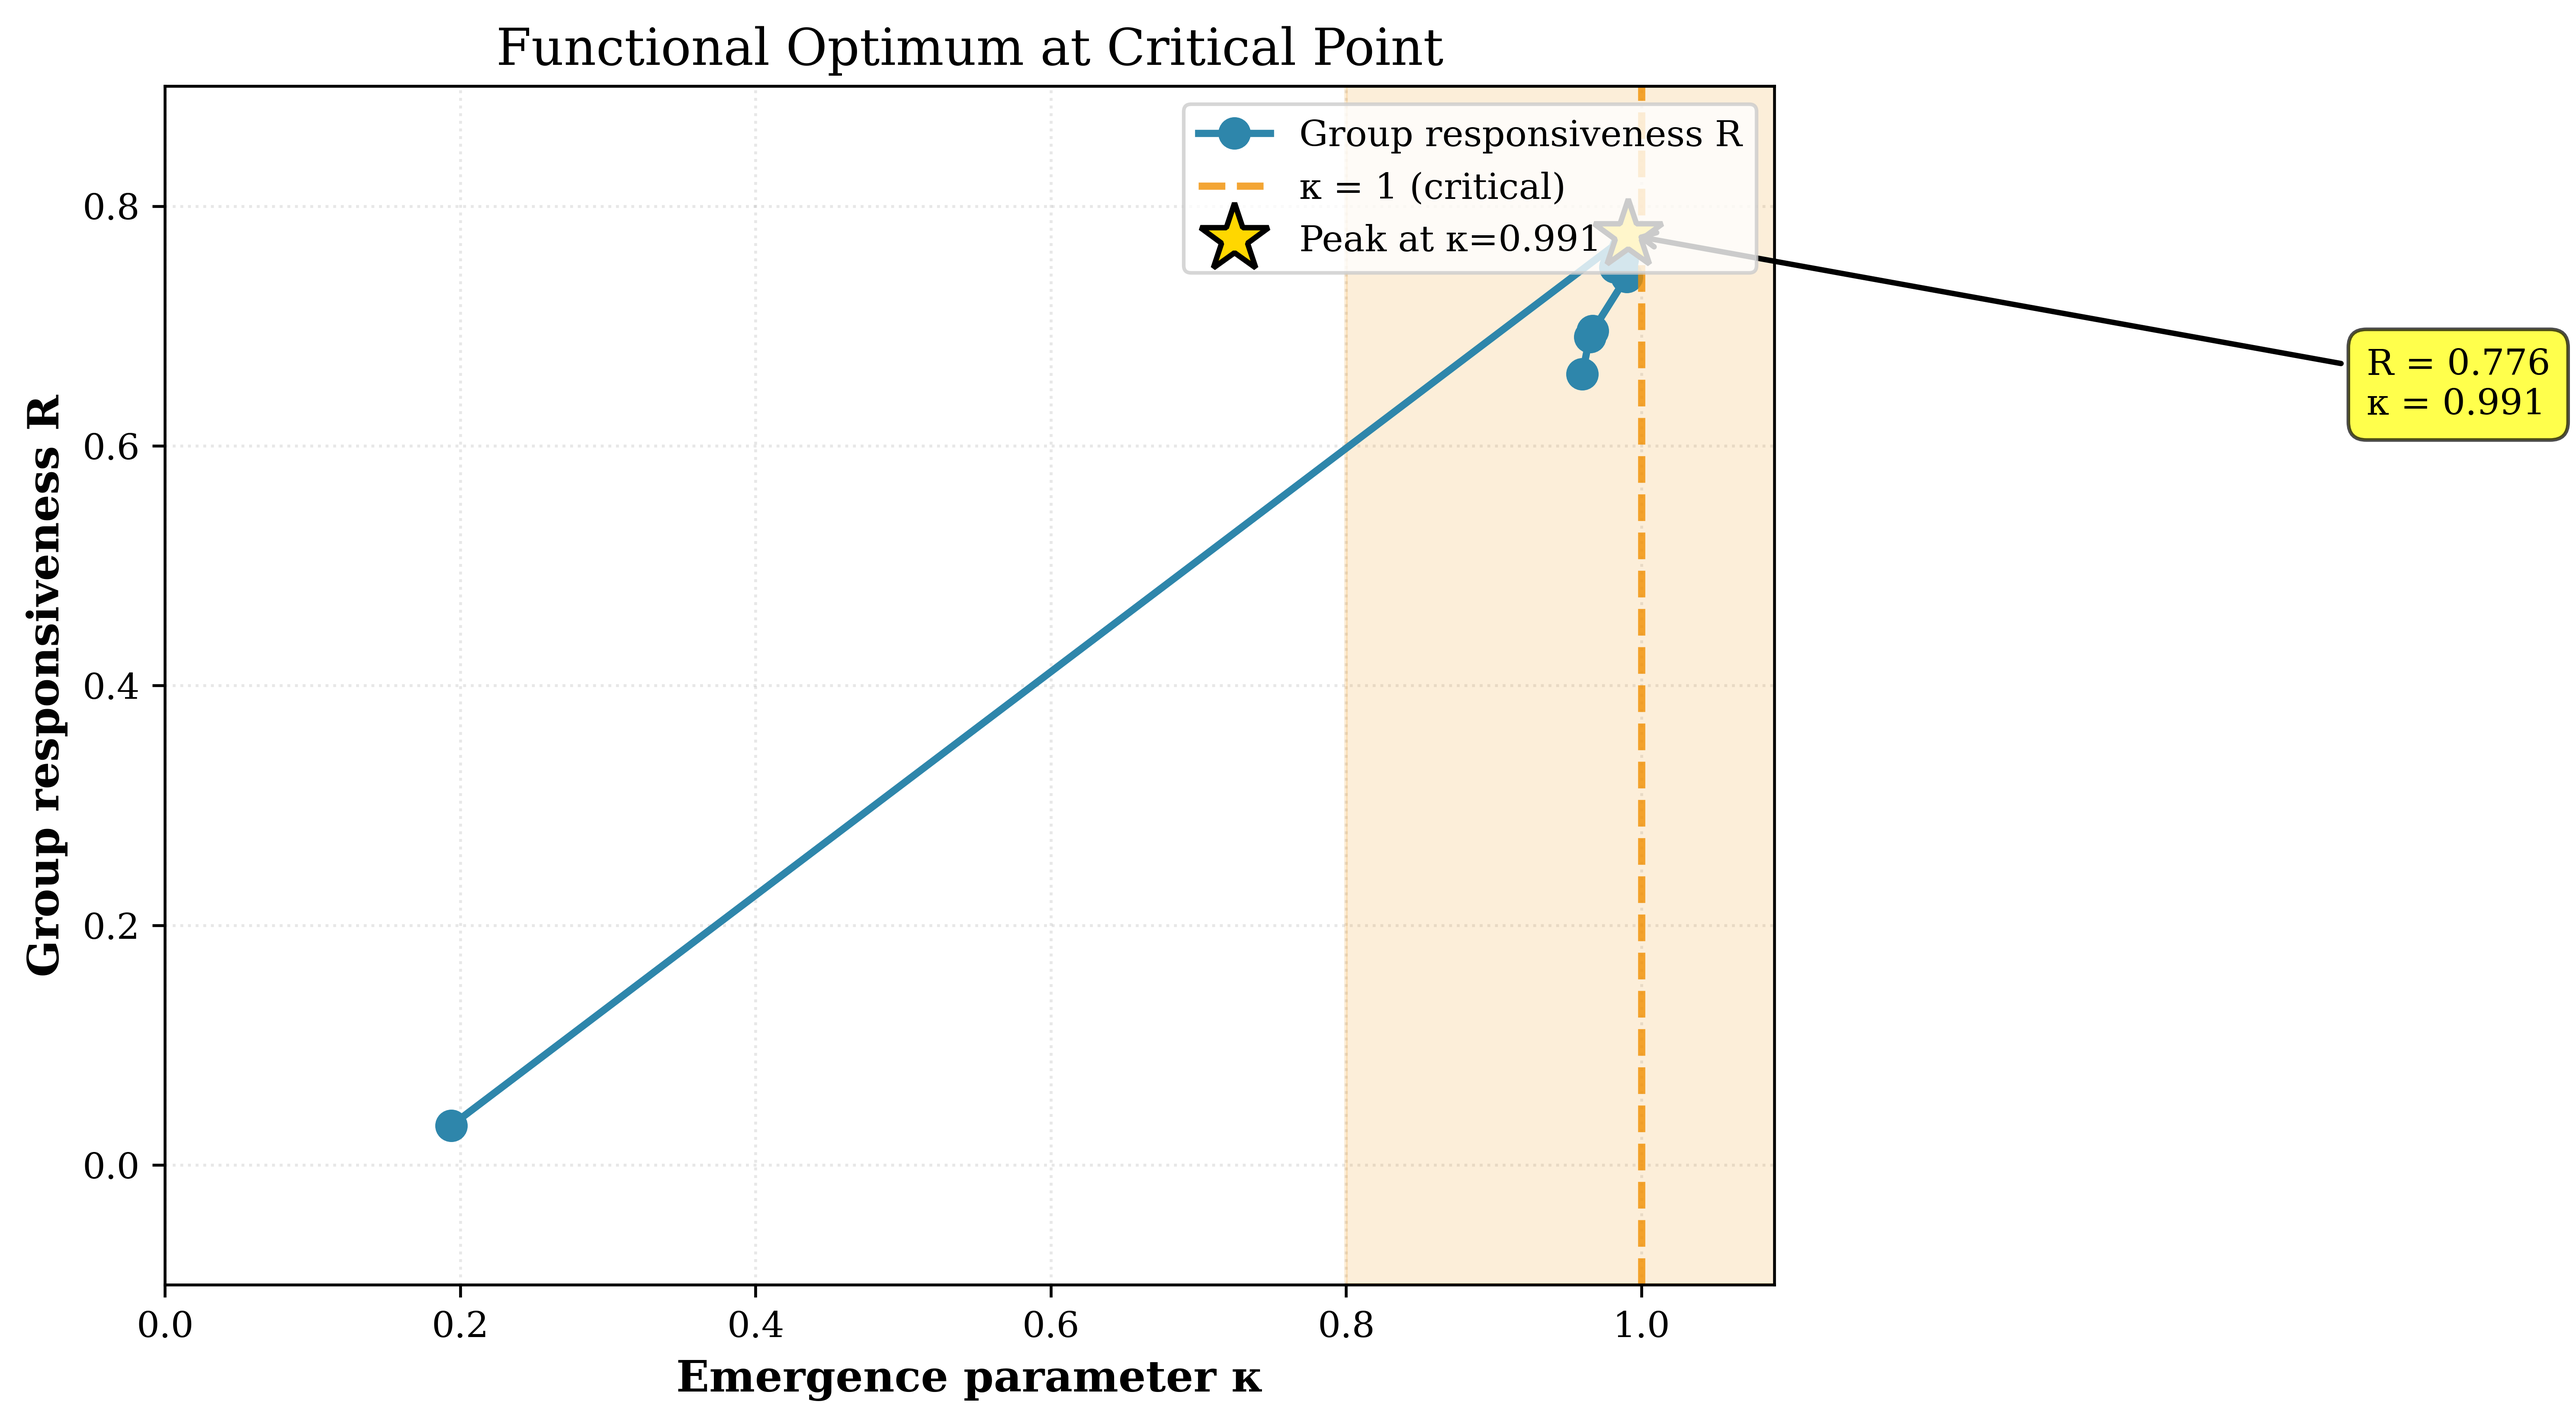
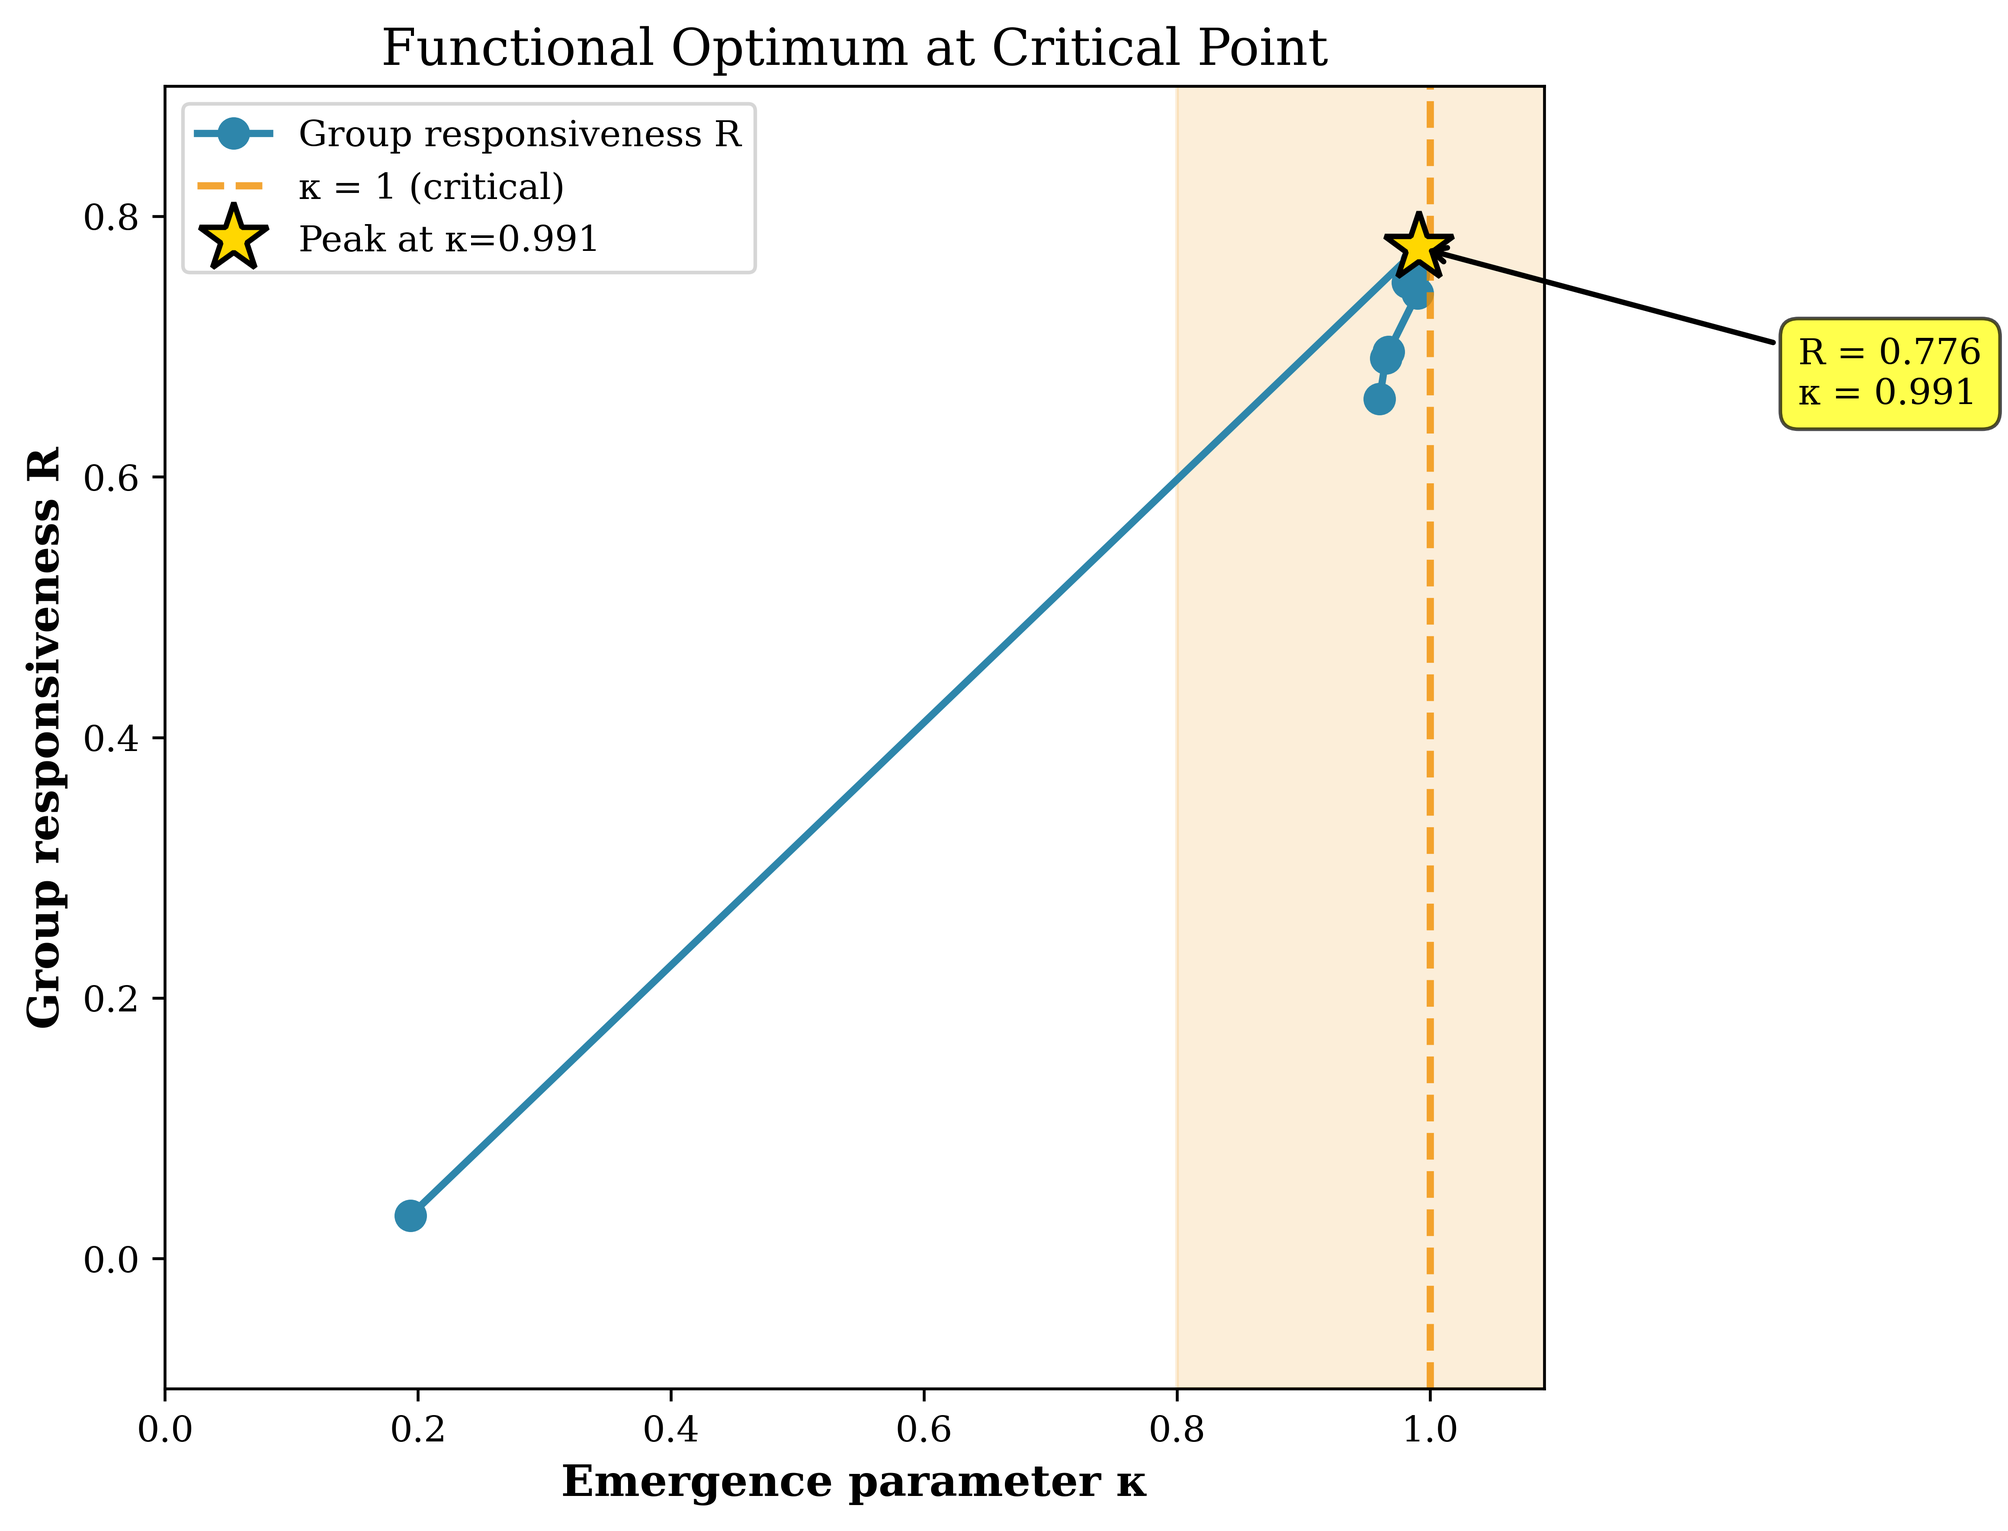
Improve Figure 2: Legend repositioned, shorter annotation
- Moved legend to upper left corner (better readability)
- Shortened annotation line (less visual clutter)
- Maintained publication quality (600 DPI)

diff --git a/code/fix_fig2_final.py b/code/fix_fig2_final.py
@@ -1,0 +1,70 @@
+#!/usr/bin/env python3
+"""Fix Figure 2 - Legend left, shorter annotation line"""
+import numpy as np
+import pandas as pd
+import matplotlib.pyplot as plt
+from pathlib import Path
+
+DPI = 600
+FIGSIZE = (8, 6)
+
+plt.rcParams.update({
+    'font.family': 'serif',
+    'font.size': 10,
+    'axes.labelsize': 12,
+    'axes.titlesize': 14,
+    'legend.fontsize': 10,
+    'xtick.labelsize': 10,
+    'ytick.labelsize': 10,
+    'figure.dpi': DPI,
+    'savefig.dpi': DPI
+})
+
+df = pd.read_csv('data/swarm_robots_complete_data.csv')
+df_fig5 = df[df['experiment'] == 'fig5'].copy()
+
+fig, ax = plt.subplots(figsize=FIGSIZE)
+
+# Data
+ax.plot(df_fig5['kappa_correct'], df_fig5['R'], 
+        'o-', color='#2E86AB', markersize=8, linewidth=2,
+        label='Group responsiveness R')
+
+# Critical line
+ax.axvline(x=1.0, color='#F18F01', linestyle='--', 
+           linewidth=2, alpha=0.8, label='κ = 1 (critical)')
+ax.axvspan(0.8, 1.2, alpha=0.15, color='#F18F01')
+
+# Peak
+idx_max = df_fig5['R'].idxmax()
+kappa_max = df_fig5.loc[idx_max, 'kappa_correct']
+R_max = df_fig5.loc[idx_max, 'R']
+
+ax.plot(kappa_max, R_max, '*', color='gold', markersize=20,
+        markeredgecolor='black', markeredgewidth=1.5,
+        label=f'Peak at κ={kappa_max:.3f}')
+
+# SHORT annotation - moved closer
+ax.annotate(f'R = {R_max:.3f}\nκ = {kappa_max:.3f}',
+            xy=(kappa_max, R_max),
+            xytext=(kappa_max + 0.3, R_max - 0.12),  # Closer!
+            fontsize=10,
+            bbox=dict(boxstyle='round,pad=0.5', 
+                     facecolor='yellow', alpha=0.7),
+            arrowprops=dict(arrowstyle='->', lw=1.5))  # Thinner arrow
+
+# Labels
+ax.set_xlabel('Emergence parameter κ', fontweight='bold')
+ax.set_ylabel('Group responsiveness R', fontweight='bold')
+ax.set_title('Functional Optimum at Critical Point')
+
+# Legend - LEFT position
+ax.legend(loc='upper left')
+
+ax.set_xlim(0, df_fig5['kappa_correct'].max() * 1.1)
+ax.set_ylim(-0.1, 0.9)
+
+plt.tight_layout()
+plt.savefig('figures/publication/fig2_functional_peak_kappa_vs_R.png', 
+            dpi=DPI, bbox_inches='tight')
+print("✓ Figure 2 fixed")
